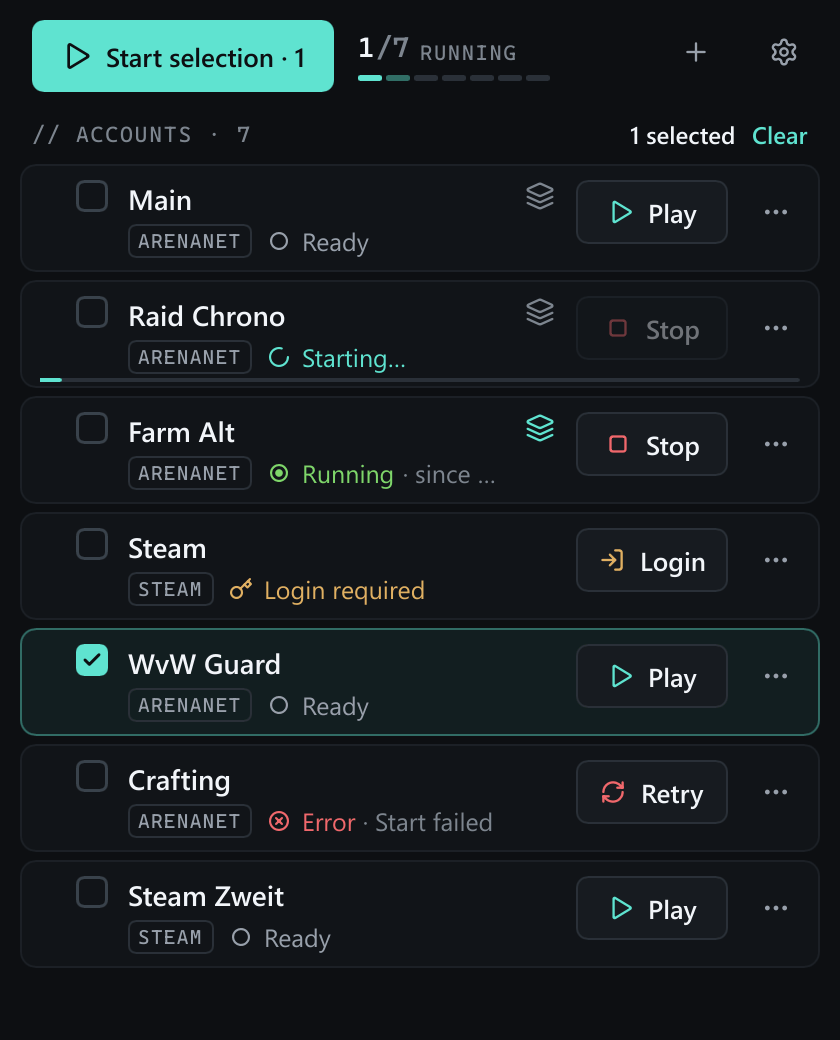
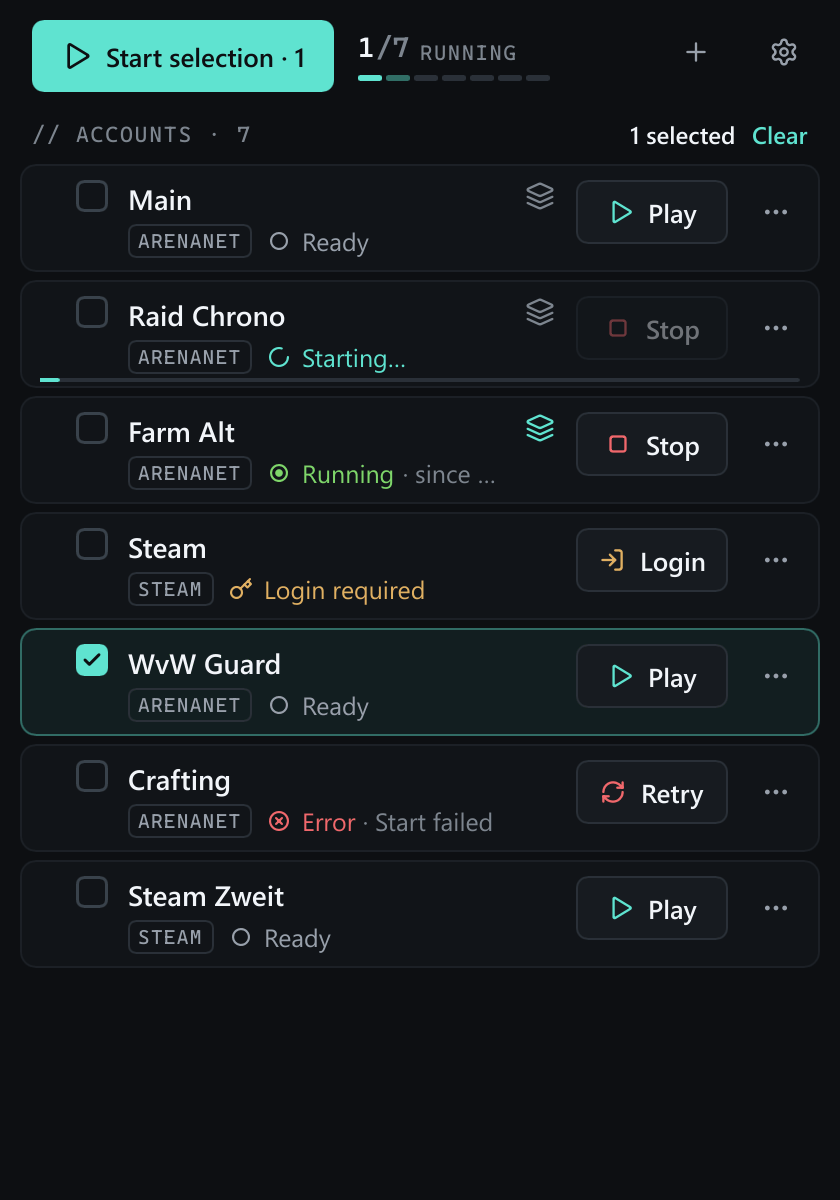
Show the account list (dark) and the settings (light) in the README

diff --git a/crates/bb-app/src/gui.rs b/crates/bb-app/src/gui.rs
@@ -2117,8 +2117,8 @@ mod preview {
         };
         use ui::Page::{Accounts, Editor, Settings, SetupAccount, SetupPath};
         let variants = [
-            variant("accounts-dark", true, true, Accounts, (420, 520)),
-            variant("accounts-light", false, true, Accounts, (420, 520)),
+            variant("accounts-dark", true, true, Accounts, (420, 600)),
+            variant("accounts-light", false, true, Accounts, (420, 600)),
             variant("empty-dark", true, false, Accounts, (420, 520)),
             variant("empty-light", false, false, Accounts, (420, 520)),
             variant("editor-dark", true, false, Editor, (420, 780)),
@@ -2134,6 +2134,7 @@ mod preview {
             variant("narrow-dark", true, true, Accounts, (320, 360)),
             variant("settings-dark", true, false, Settings, (420, 1060)),
             variant("settings-light", false, false, Settings, (420, 1060)),
+            variant("settings-top-light", false, false, Settings, (420, 600)),
             variant("editor-steam-dark", true, false, Editor, (420, 780)),
             variant("login-offer-dark", true, true, Accounts, (420, 520)),
             variant("login-offer-steam-light", false, true, Accounts, (420, 520)),

diff --git a/README.md b/README.md
@@ -9,8 +9,8 @@
 ![Platform: Windows 10/11 x64](https://img.shields.io/badge/platform-Windows%2010%2F11%20x64-lightgrey)
 ![Status: early development](https://img.shields.io/badge/status-early%20development-orange)
 
-<img src="docs/images/main-window-dark.png" alt="Breakbar Launcher, dark theme: several accounts running, two selected" width="380">
-<img src="docs/images/main-window-light.png" alt="Breakbar Launcher, light theme: several accounts running, two selected" width="380">
+<img src="docs/images/main-window-dark.png" alt="Breakbar Launcher, dark theme: the account list with accounts in different states" width="380">
+<img src="docs/images/settings-light.png" alt="Breakbar Launcher settings, light theme: paths, frame rate limit and behavior" width="380">
 
 </div>
 
@@ -24,10 +24,10 @@ uses almost no CPU while idle.
 > [Building](#building)).
 
 <details>
-<summary>More screenshots: settings and instance switcher</summary>
+<summary>More screenshots: light theme and instance switcher</summary>
 
 <p align="center">
-  <img src="docs/images/settings-light.png" alt="Settings: paths, frame rate limit, behavior, theme and about" width="380">
+  <img src="docs/images/main-window-light.png" alt="Breakbar Launcher, light theme: the account list" width="380">
 </p>
 
 The instance switcher, a small bar over the game with one chip per account (the first one is the
